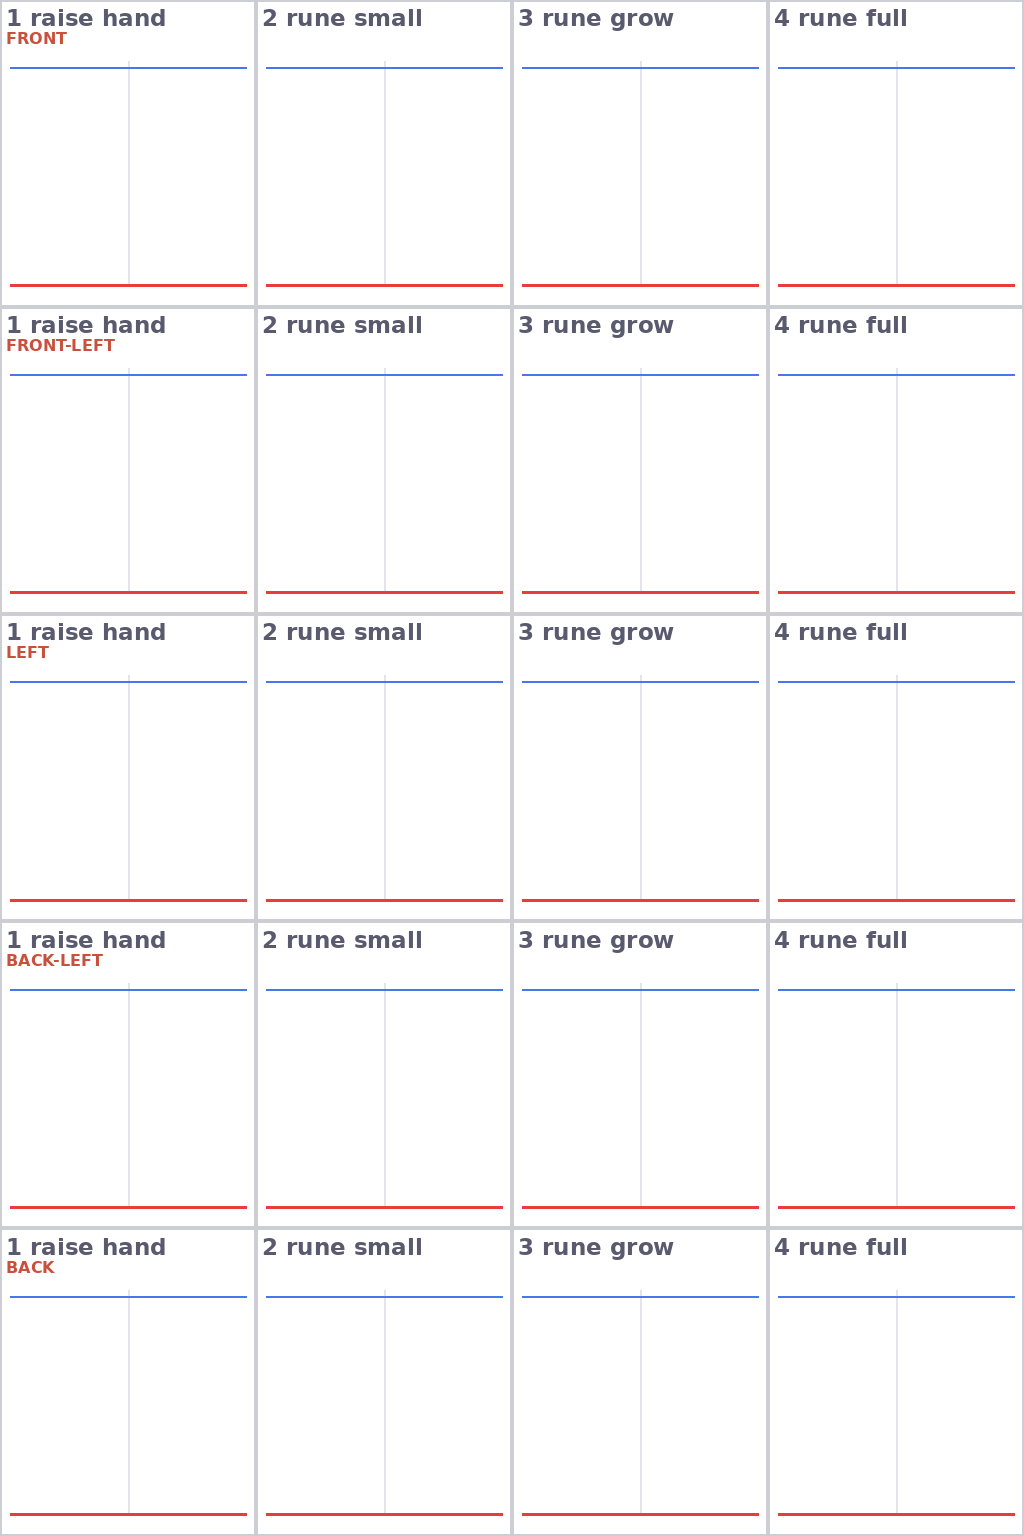
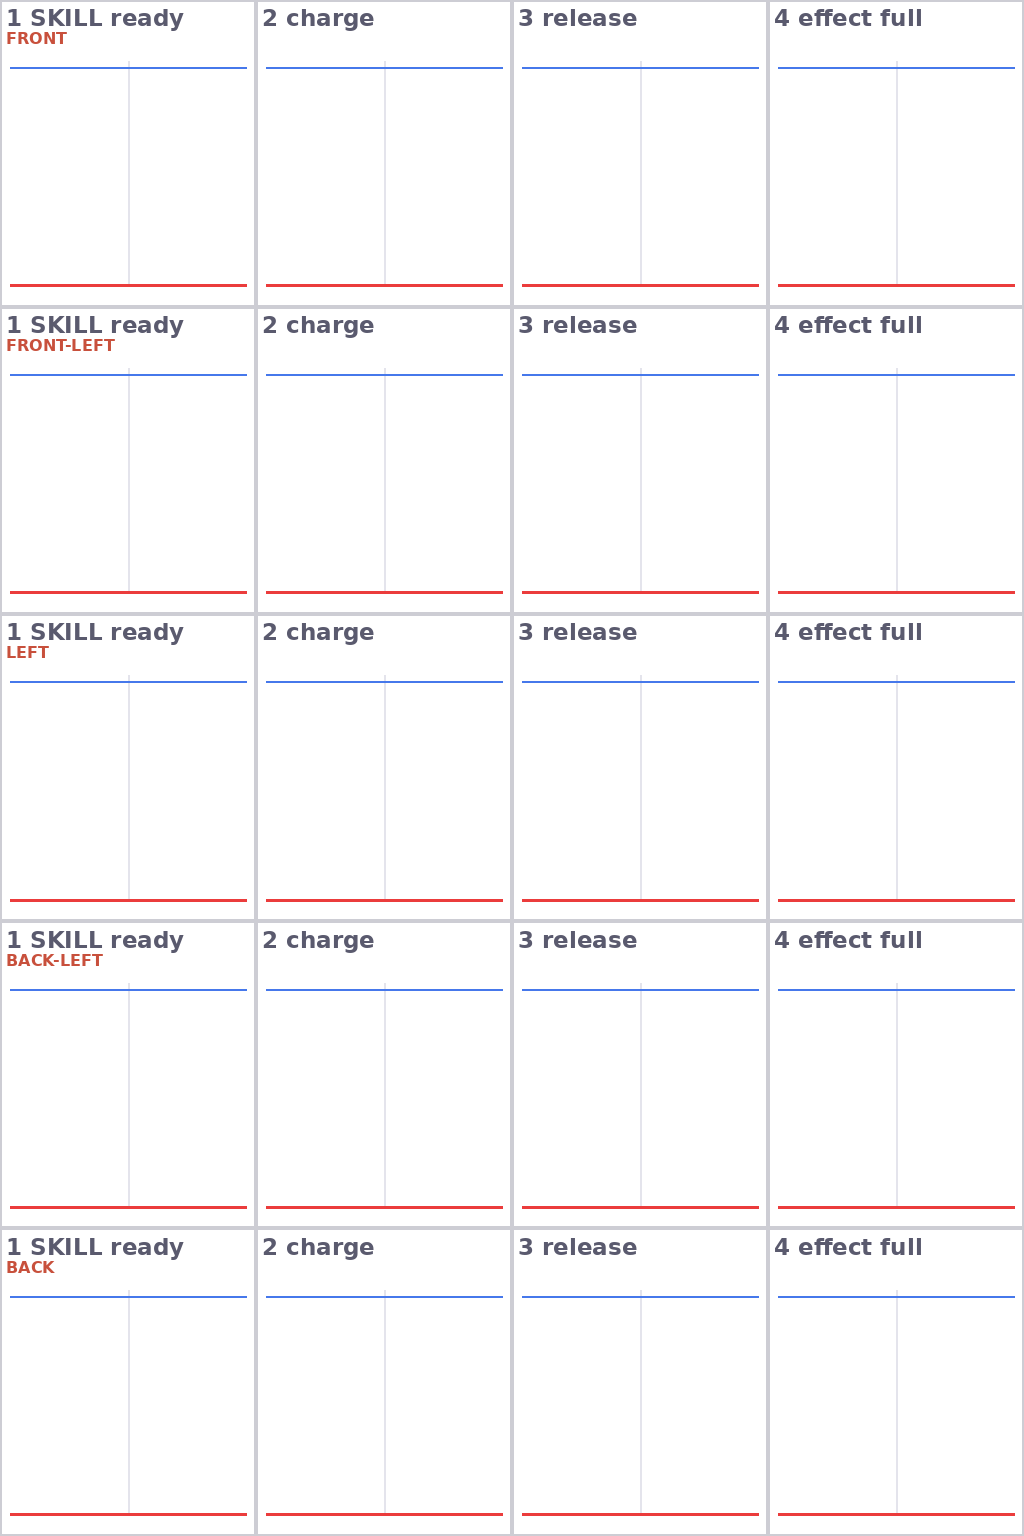
Death pose lies on the ground; one skill pose per class; idle template
- Anim: lying death frames were anchored at the feet and floated above the
  shadow; the body's middle now settles onto the ground point (progressively
  while falling) with a wider shadow
- Using any skill plays the class skill pose (the cast strip) once; the
  skill's identity comes from its effect
- tpl_idle.png (feet-together standing, 5 directions) and updated shot list:
  six sheets per class (walk, idle, attack, skill, sit+hurt, dead)

Claude-Session: https://claude.ai/code/session_017QrEU6PVR1NvrPzc5r5uQv

diff --git a/js/anim.js b/js/anim.js
@@ -67,6 +67,21 @@ const Anim = {
     } catch (e) { /* อ่านพิกเซลไม่ได้ (file://) */ }
     return img._feet;
   },
+  // กรอบเนื้อภาพ (บน/ล่าง) ของเฟรมหนึ่ง — วัดครั้งเดียวแล้วจำ
+  frameBox(img, f, row) {
+    const key = row * 64 + f, cache = img._box || (img._box = {});
+    if (cache[key] !== undefined) return cache[key];
+    let box = null;
+    try {
+      const C = this.CELL, c = document.createElement('canvas'); c.width = C; c.height = C;
+      const g = c.getContext('2d'); g.drawImage(img, f * C, row * C, C, C, 0, 0, C, C);
+      const d = g.getImageData(0, 0, C, C).data;
+      let top = -1, bot = -1;
+      for (let y = 0; y < C; y++) { let any = false; for (let x = 0; x < C; x += 2) if (d[(y * C + x) * 4 + 3] > 80) { any = true; break; } if (any) { if (top < 0) top = y; bot = y; } }
+      if (top >= 0) box = { top, bot };
+    } catch (e) { /* อ่านพิกเซลไม่ได้ */ }
+    return (cache[key] = box);
+  },
   stillFrame(img, n, row) {
     const r = this.feet(img, n)[row];
     return r ? r.still : Math.min(1, n - 1);
@@ -99,6 +114,7 @@ const Anim = {
     let action = 'idle', k = null;
     if (st.dead) { action = 'dead'; k = Math.min(1, (st.deathT == null ? 1 : st.deathT) / 0.5); }
     else if (st.hurt > 0) { action = 'hurt'; k = 1 - st.hurt; }
+    else if (st.skill > 0) { action = 'cast'; k = 1 - st.skill; }
     else if (st.atk > 0) { action = 'attack'; k = 1 - st.atk; }
     else if (st.cast) action = 'cast';
     else if (st.sit) action = 'sit';
@@ -116,7 +132,7 @@ const Anim = {
     const def = this.ACTIONS[s.action];
     let f;
     if (s.action === 'walk' && action !== 'walk') f = 0; // ยืนนิ่งด้วยเฟรมแรกของท่าเดิน
-    else if (k != null && !def.loop) f = Math.min(s.n - 1, Math.floor(k * s.n)); // ท่าที่เล่นครั้งเดียว: ตามความคืบหน้า
+    else if (k != null && (!def.loop || st.skill > 0)) f = Math.min(s.n - 1, Math.floor(k * s.n)); // ท่าที่เล่นครั้งเดียว (รวมท่าใช้สกิล): ตามความคืบหน้า
     else f = Math.floor((t + (st.seed || 0)) / ((def.cycle || 1) / s.n)) % s.n;
     // แถว: ภาพ 8 ทิศเลือกตามทิศที่หัน, ภาพทิศเดียวใช้แถวแรกแล้วกลับด้านตอนหันขวา
     const dir = st.dir != null ? st.dir : (st.facing > 0 ? 0 : 4);
@@ -124,16 +140,22 @@ const Anim = {
     // ท่าเดิน: ยกตัวขึ้นเล็กน้อยตอนก้าวผ่าน ลงตอนเหยียบ (ขั้นละเฟรม ตามจังหวะขาในภาพ) ให้เห็นการก้าวชัดขึ้น
     let lift = 0;
     if (s.action === 'walk' && action === 'walk') { const fr = this.feet(s.img, s.n)[row]; lift = fr && Math.max(0, f) % 2 === fr.pass ? 3 : 0; }
-    return { img: s.img, f: Math.max(0, f), row, flip: s.dirs === 8 ? false : st.facing > 0, lift, breathe: s.action === 'idle' && s.n === 1 };
+    return { img: s.img, f: Math.max(0, f), row, flip: s.dirs === 8 ? false : st.facing > 0, lift, breathe: s.action === 'idle' && s.n === 1, action: s.action, n: s.n };
   },
 
   // วาดที่ตำแหน่งเท้า (x, y), ตัวสูงราว H px, facing>0 = หันขวา (ภาพต้นฉบับหันซ้าย)
   draw(g, x, y, key, st, t, H = 66) {
     const p = this.pick(key, st, t); if (!p) return false;
     const k = H / this.STD_H, C = this.CELL;
-    Sprites.shadow(g, x, y, H * 0.3, H * 0.09, 0.3);
+    // ท่าล้ม: ภาพนอนราบยึดที่ปลายเท้า ดูเหมือนลอย → เลื่อนให้กลางลำตัวทับจุดยืน (ค่อย ๆ เลื่อนตามจังหวะล้ม) + เงากว้างขึ้น
+    let sink = 0;
+    if (p.action === 'dead') {
+      const b = this.frameBox(p.img, p.f, p.row);
+      if (b) sink = Math.max(0, this.GROUND - 10 - (b.top + b.bot) / 2) * (p.n > 1 ? p.f / (p.n - 1) : 1);
+    }
+    if (sink) Sprites.shadow(g, x, y, H * 0.46, H * 0.13, 0.32); else Sprites.shadow(g, x, y, H * 0.3, H * 0.09, 0.3);
     g.save();
-    g.translate(x, y - (st.raise || 0));
+    g.translate(x, y - (st.raise || 0) + sink * k);
     if (p.lift) g.translate(0, -p.lift * k);
     g.scale(p.flip ? -k : k, k * (p.breathe ? 1 + Math.sin(t * 2.4 + (st.seed || 0)) * 0.012 : 1));
     if (st.flash) g.filter = 'brightness(1.9)';

diff --git a/js/sprites.js b/js/sprites.js
@@ -874,6 +874,7 @@ Sprites.drawPlayer = (g, p, t) => {
     const tr = Anim.track(p, t, p.atkAnim || 0, (p.hurtFlash || 0) > 0, !!p.dead);
     Anim.draw(g, x, y, gk, {
       facing: p.facing || 1, dir: p.dir, moving: p.moving && !p.sitting, atk: tr.atk, cast: !!p.cast, sit: p.sitting, dead: p.dead, deathT: tr.deathT,
+      skill: p.skillPose != null && G.time - p.skillPose < 0.5 && G.time >= p.skillPose ? 1 - (G.time - p.skillPose) / 0.5 : 0,
       hurt: tr.hurt,
     }, t, 68);
     return;

diff --git a/js/game.js b/js/game.js
@@ -752,6 +752,7 @@ function executeSkill(id, lv, tgt) {
   p.skillReadyAt = G.time + delay / 1000;
   shout(`${s.name}!!`);
   p.atkAnim = 1;
+  p.skillPose = G.time; // ท่าใช้สกิล (1 ท่าต่ออาชีพ) — ความต่างของแต่ละสกิลอยู่ที่เอฟเฟกต์
   if (tgt) faceTo(p, tgt.x, tgt.y);
   Sound.play('skill');
 

diff --git a/tools/sprite_std.py b/tools/sprite_std.py
@@ -136,8 +136,9 @@ def knock_bg(im, tol=40, hole_tol=14, hole_min=700):
 DIR_LABELS = ['FRONT', 'FRONT-LEFT', 'LEFT', 'BACK-LEFT', 'BACK']
 POSES = {
     'walk':   ('4x5', 1024, 1536, ['L foot fwd', 'passing', 'R foot fwd', 'passing']),
+    'idle':   ('4x5', 1024, 1536, ['feet together', 'breathe in', 'feet together', 'breathe out']),
     'attack': ('6x5', 1536, 1024, ['ready', 'wind-up', 'lunge', 'SLASH', 'follow', 'ready']),
-    'cast':   ('4x5', 1024, 1536, ['raise hand', 'rune small', 'rune grow', 'rune full']),
+    'cast':   ('4x5', 1024, 1536, ['SKILL ready', 'charge', 'release', 'effect full']),
     'sit_hurt': ('4x5', 1024, 1536, ['SIT', 'SIT breathe', 'HURT hit', 'HURT recover']),
     'dead':   ('4x5', 1024, 1536, ['knees buckle', 'falling', 'on ground', 'still, visor off']),
 }

diff --git a/art/ANIM_PROMPTS.md b/art/ANIM_PROMPTS.md
@@ -4,16 +4,19 @@
 
 ## สถานะ
 
-| ตัวละคร | เดิน | ยืน | โจมตี | ร่ายเวท | นั่ง+โดนตี | ล้ม |
+**หลักใหม่: ท่าสกิลมีแค่ 1 ท่าต่ออาชีพ** — ทุกสกิลใช้ท่าเดียวกัน ความต่างของแต่ละสกิลไปอยู่ที่ "เอฟเฟกต์" (เกมวาดเอง) ตัวละครจึงทำง่าย อาชีพละ 6 ภาพ:
+เดิน • ยืนขาคู่ • โจมตี • สกิล (1 ท่า) • นั่ง+โดนตี • ล้ม
+
+| ตัวละคร | เดิน | ยืน | โจมตี | สกิล | นั่ง+โดนตี | ล้ม |
 |---|---|---|---|---|---|---|
-| Novice หญิง (Type-A) | ✅ 8 ทิศ | ✅ 8 ทิศ | ✅ 8 ทิศ | ⏳ ดีไซน์เก่า | ⏳ ดีไซน์เก่า | ⏳ ดีไซน์เก่า |
+| Novice หญิง (Type-A) | ✅ 8 ทิศ | ⚠ ยังไม่ขาคู่ → A0 | ✅ 8 ทิศ | ✅ 8 ทิศ | ⏳ ดีไซน์เก่า | ⏳ ดีไซน์เก่า |
 | Novice ชาย (Type-B) | ❌ | ❌ | ❌ | ❌ | ❌ | ❌ |
 | มอนแผนที่แรก (5 ตัว) | ❌ ภาพนิ่ง | | ❌ | | | |
 | NPC Kaia (คลังของ) | ❌ วาดด้วยโค้ด (ภาพนิ่งพอ) | | | | | |
 
 ## วิธีสั่ง (ทุกภาพใช้หลักเดียวกัน)
 
-- แนบ **ภาพอ้างอิงตัวละคร** + **เทมเพลตของท่านั้น** (`art/tpl_*.png`)
+- แนบ **ภาพอ้างอิงตัวละคร** (ภาพเดินล่าสุด) + **เทมเพลตของท่านั้น** (`art/tpl_*.png`)
 - 1 ภาพ = 1 ท่า • แถว = ทิศ (FRONT, FRONT-LEFT, LEFT, BACK-LEFT, BACK) • คอลัมน์ = เฟรม
 - ข้อความคงที่ท้ายทุก prompt:
 
@@ -27,12 +30,15 @@ Output: flat white background, do NOT draw the labels, grid or guide lines.
 
 ## A. Novice หญิง — ที่เหลือ (แนบภาพเดินล่าสุดเป็นแบบ)
 
-**A1 ร่ายเวท** — แนบ `tpl_cast.png`
+**A0 ยืนขาคู่ (ทำก่อน)** — แนบ `tpl_idle.png`
 ```
-Draw this exact character (attached walk sheet) into the attached template: CAST, 4 frames per direction.
-1 free hand raised forward, 2 a small cyan rune circle appears in front of the hand, 3 the rune circle grows and glows, 4 full bright rune circle with sparks.
-The dagger stays in the other hand. Each row is a direction as labelled.
+Draw this exact character (attached walk sheet) into the attached template: IDLE standing pose, 4 frames per direction.
+She stands still with BOTH FEET TOGETHER side by side, both soles flat on the red line, legs straight, knees together, weight even. Dagger held relaxed at her side.
+Frames: 1 neutral, 2 breathe in (shoulders a tiny bit higher, hair sways slightly), 3 neutral, 4 breathe out (hair settles). The legs and feet must NOT move between frames.
+Each row is a direction as labelled.
 ```
+
+**A1 ท่าสกิล** — ✅ ติดตั้งแล้ว (ใช้กับทุกสกิลของ Novice)
 
 **A2 นั่ง + โดนตี** — แนบ `tpl_sit_hurt.png`
 ```
@@ -45,7 +51,7 @@ Each row is a direction as labelled.
 **A3 ล้ม** — แนบ `tpl_dead.png`
 ```
 Draw this exact character (attached walk sheet) into the attached template: DEAD, 4 frames per direction.
-1 knees buckle, 2 falling to the ground, 3 lying on the ground, 4 lying still with the visor dark (turned off).
+1 knees buckle, 2 falling to the ground, 3 lying FLAT on the ground (whole body on the red line, seen from the game's high 3/4 camera), 4 lying still with the visor dark (turned off).
 Each row is a direction as labelled.
 ```
 
@@ -60,7 +66,7 @@ Draw a WALK cycle into the attached template, 4 frames per direction, legs clear
 1 LEFT leg far forward, RIGHT leg back (wide stride); 2 legs together, RIGHT knee lifted; 3 RIGHT leg far forward, LEFT leg back; 4 legs together, LEFT knee lifted. Arms swing opposite to the legs.
 Each row is a direction as labelled (FRONT, FRONT-LEFT, LEFT, BACK-LEFT, BACK).
 ```
-จากนั้นใช้ภาพเดินที่ได้เป็นแบบ สั่งต่อด้วย prompt เดียวกับ A1–A3 และท่าโจมตี (`tpl_attack.png`):
+จากนั้นใช้ภาพเดินที่ได้เป็นแบบ สั่งต่อด้วย prompt เดียวกับ A0, A2, A3 + ท่าสกิล (`tpl_cast.png`: ยกมือ → ชาร์จ → ปล่อย → เอฟเฟกต์เต็ม) และท่าโจมตี (`tpl_attack.png`):
 ```
 Draw this exact character (attached walk sheet) into the attached template: ATTACK with the dagger, 6 frames per direction.
 1 ready, 2 wind-up (dagger arm pulled far back), 3 lunge forward, 4 full SLASH with a short cyan slash arc, 5 follow-through, 6 back to ready.
@@ -100,7 +106,8 @@ Single full-body figure, 3/4 view FACING LEFT, standing, centered. Fully transpa
 ## ติดตั้ง (ฝั่งผม)
 
 ```
-python3 tools/sprite_std.py install cast.png      novice_f cast   --grid 4x5 --dirs S,SW,W,NW,N --ref-frames 1
+python3 tools/sprite_std.py install idle.png      novice_f idle   --grid 4x5 --dirs S,SW,W,NW,N
+python3 tools/sprite_std.py install cast.png      novice_f cast   --grid 4x5 --dirs S,SW,W,NW,N --ref-frames 1 --nofit
 python3 tools/sprite_std.py install sithurt.png   novice_f sit    --grid 4x5 --dirs S,SW,W,NW,N --take-cols 1,2
 python3 tools/sprite_std.py install sithurt.png   novice_f hurt   --grid 4x5 --dirs S,SW,W,NW,N --take-cols 3,4
 python3 tools/sprite_std.py install dead.png      novice_f dead   --grid 4x5 --dirs S,SW,W,NW,N
